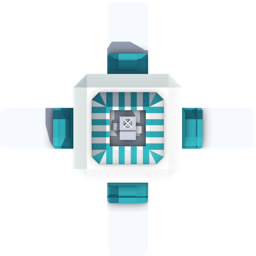
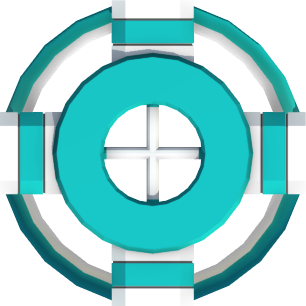
pull in new bases and remove base labels

diff --git a/server/src/prefab.rb b/server/src/prefab.rb
@@ -80,6 +80,13 @@
     hp = RtsGame::UNITS[:base][:hp]
     health = Health.new(points: hp, max: hp)
     tile_size = RtsGame::TILE_SIZE
+
+    entity_manager.add_entity(
+      Label.new(size: 24, text: "Player #{player_id}"),
+      PlayerOwned.new(id: player_id),
+      Named.new(name: 'player-name')
+    )
+
     id = entity_manager.add_entity(
       Unit.new(status: :idle, type: :base), 
       b,
@@ -93,8 +100,7 @@
         death_count: 0, total_resources: RtsGame::PLAYER_START_RESOURCE,
         total_commands: 0, invalid_commands: 0,
         ),
-      Sprited.new(image: "base#{player_id}".to_sym, flipped: false, offset: vec),
-      Label.new(size: 24, text: "Player #{player_id}"),
+      Sprited.new(image: "base#{player_id}".to_sym, flipped: false, offset: vec, scale: 0.63),
       r,
       health
     )

diff --git a/server/components/components.rb b/server/components/components.rb
@@ -43,14 +43,18 @@ Timed = define_component(attrs: [:accumulated_time_in_ms])
 Ranged = define_component(attrs: [:distance])
 Speed = define_component(attrs: [:speed])
 Attack = define_component(attrs: [:damage,:range,:cooldown,:current_cooldown,:can_attack])
+
 ShootCommand = define_component(attrs: [:id,:dx,:dy])
 MeleeCommand = define_component(attrs: [:id,:target])
 Shooter = define_component
 Melee = define_component
 MeleeEffect = define_component
+
 MovementCommand = define_component(attrs: [:target_vec])
 CreateCommand = define_component(attrs: [:type, :build_time])
 SoundEffectEvent = define_component(attrs: [:sound_to_play])
+
+Named = define_component(attrs: [:name])
 
 MusicInfo = define_component(attrs: [:mood, :battle, :peace, :peace_timer])
 

diff --git a/server/systems/command_system.rb b/server/systems/command_system.rb
@@ -71,9 +71,12 @@ class CommandSystem
             if uid
               ent = entity_manager.find_by_id(uid, Unit, PlayerOwned, Label)
             else
-              ent = entity_manager.find(Base, Unit, PlayerOwned, Label).
-                select{|ent| ent.get(PlayerOwned).id == msg.connection_id}.first
               name = "#{name} (#{msg.connection_id})"
+              ent = entity_manager.query(
+                Q.must(PlayerOwned).with(id: msg.connection_id).
+                  must(Label).
+                  must(Named).with(name: "player-name")
+                ).first
             end
             if ent.nil?
               player_info.invalid_commands += 1

diff --git a/server/systems/render_system.rb b/server/systems/render_system.rb
@@ -154,8 +154,14 @@ class RenderSystem
     small_font = get_cached_font size: 18
 
     player_colors = [ AO_RED, AO_GREEN ]
-    entity_manager.each_entity Base, PlayerOwned, Label do |rec|
-      base, player, label = rec.components
+    entity_manager.each_entity Base, PlayerOwned do |rec|
+      base, player = rec.components
+
+      label = entity_manager.query(
+        Q.must(PlayerOwned).with(id: player.id).
+          must(Label).
+          must(Named).with(name: "player-name")
+        ).first.get(Label)
 
       draw_rect(target, score_x, 0, 1, game_offset, 25, player_colors[player.id])
 
